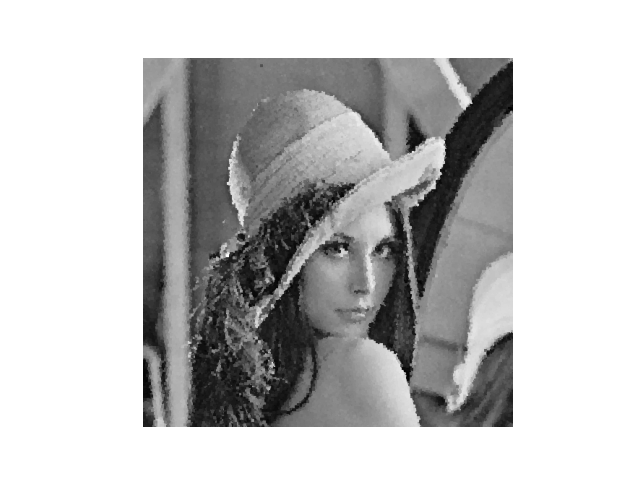
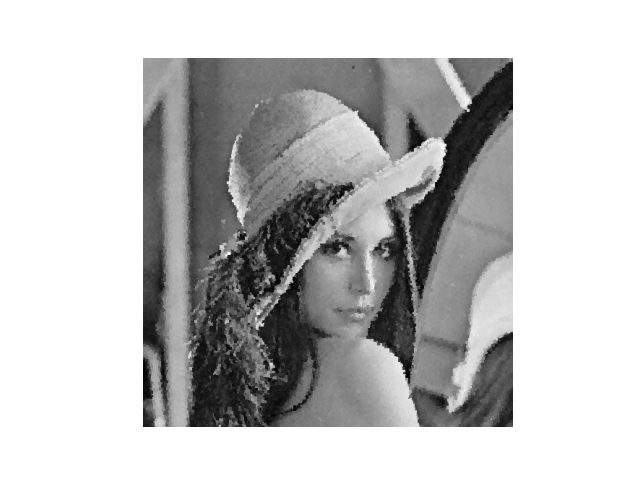
add doc

diff --git a/main12.py b/main12.py
@@ -818,7 +818,7 @@ def get_noise_degree(mat, h, w):
 
 img = cv2.imread('src/Lena.bmp', cv2.IMREAD_GRAYSCALE)  #读取灰度图
 #noise_img = cv2.imread('C:/Users/AMDyes/Desktop/noise_img/0.8noise.bmp', cv2.IMREAD_GRAYSCALE)  #读取灰度图
-noise_img = sp_noise(img, 0.5) #添加噪声
+noise_img = sp_noise(img, 0.8) #添加噪声
 padded_img = np.pad(img, ((1, 1), (1, 1)), mode='symmetric')
 h, w = noise_img.shape
 sub_h, sub_w = h // 2, w // 2 # 1/4子图的高宽
@@ -864,7 +864,7 @@ if nd > t:
     padded_noise_mat = lower_noise_density(padded_noise_mat)
     print('lowered')
 '''
-
+'''
 # 对高密度噪声降噪
 while(nd >= 0):
     padded_noise_mat = lower_noise_density(padded_noise_mat, 4, h, w)
@@ -890,7 +890,7 @@ while(nd >= 0):
         nd = nd0
     else:
         break
-
+'''
 denoise_img = padded_noise_mat.copy()
 
 for k in range(10): #迭代

diff --git a/main1.py b/main1.py
@@ -792,7 +792,7 @@ def lower_noise_density(mat1, mat2):
 
 img = cv2.imread('src/Lena.bmp', cv2.IMREAD_GRAYSCALE)  #读取灰度图
 #noise_img = cv2.imread('C:/Users/AMDyes/Desktop/noise_img/0.8noise.bmp', cv2.IMREAD_GRAYSCALE)  #读取灰度图
-noise_img = sp_noise(img, 0.5) #添加噪声
+noise_img = sp_noise(img, 0.8) #添加噪声
 padded_img = np.pad(img, ((1, 1), (1, 1)), mode='symmetric')
 h, w = noise_img.shape
 sub_h, sub_w = h // 2, w // 2 # 1/4子图的高宽

diff --git a/main2.py b/main2.py
@@ -792,7 +792,7 @@ def lower_noise_density(mat1, mat2):
 
 img = cv2.imread('src/Lena.bmp', cv2.IMREAD_GRAYSCALE)  #读取灰度图
 #noise_img = cv2.imread('C:/Users/AMDyes/Desktop/noise_img/0.8noise.bmp', cv2.IMREAD_GRAYSCALE)  #读取灰度图
-noise_img = sp_noise(img, 0.1) #添加噪声
+noise_img = sp_noise(img, 0.8) #添加噪声
 padded_img = np.pad(img, ((1, 1), (1, 1)), mode='symmetric')
 h, w = noise_img.shape
 sub_h, sub_w = h // 2, w // 2 # 1/4子图的高宽

diff --git a/doc/20240131.md b/doc/20240131.md
@@ -1,0 +1,41 @@
+# 毕设汇报20240131
+
+## 高密度噪声降噪流程
+
+1. 设计阈值区间
+   - 0
+   - 3/4
+   - 8/9
+   - 15/16
+2. 计算噪声密度
+3. 判断密度处于哪个区间（区间可被调整，比如删去某一区间，来测试直接使用另一区间的效果）
+   - 0 ~ 3/4：跳过高密度降噪
+   - 3/4 ~ 8/9：利用2*2格子（3比1情况）降噪
+   - 8/9 ~ 15/16：利用3*3格子（8比1情况）降噪
+   - 15/16以上：利用4*4格子（15比1情况）降噪
+4. 循环直到降为“低密度”噪声图像
+
+## 测试
+
+### 素材
+
+Lena图
+
+### 测试结果
+
+| 编号 | 原始噪声密度       | 利用何种模式 | 预处理降噪后噪声密度 | psnr               | ssim               |
+| ---- | ------------------ | ------------ | -------------------- | ------------------ | ------------------ |
+| 1    | 0.7944367060818484 | 2*2          | 0.12373010946418568  | 25.140800960313566 | 0.7601901198876823 |
+| 2    | 0.8939234507713969 | 3*3          | 0.20137700797892474  | 23.396030137032575 | 0.6814594494132431 |
+| 3    | 0.9429173795212644 | 4*4          | 0.2350906145437478   | 22.06005723427621  | 0.6127965535379177 |
+| 4    | 0.9416153159018305 | 3*3          | 0.2208776817211464   | 21.745781170873883 | 0.6070493066344868 |
+| 5    | 0.9424442459386213 | 2*2          | 0.14332162485427485  | 19.812177160762136 | 0.5538181081455833 |
+| 6    | 0.9427659767748188 | 无           | 无                   | 22.832078061116086 | 0.6508057304136702 |
+| 7    | 0.7937705339974868 | 无           | 无                   | 23.715710552673677 | 0.7058943898677781 |
+
+### 结果分析
+
+- 1、2、3号实验表明，无论用何种规模的模式来进行高密度噪声降噪，都可以说是“一步到位”，从某种意义上来说，噪声下降比较快，能直接降到低密度噪声
+- 3、4、5号实验表明，使用更“贴切”的模式，虽然一轮降噪后密度不会下降到最小，但是对于最终的psnr和ssim来说，效果是更好的（比如4 * 4的格子对应了15/16的噪声密度，更接近于0.95的原始噪声密度，它的效果就比3 * 3和2 * 2的效果要好）
+- 1、7号实验表明，在原始噪声密度为0.8时，如果先进行一轮去噪，那么结果会更好；但是，3、6号实验表明，在噪声密度是0.95时，不进行第一轮去噪会更好。可见其中仍存在一个阈值，在噪声密度小于这个阈值时，使用该预处理方法会更好。
+

diff --git a/doc/20240201.md b/doc/20240201.md
@@ -1,0 +1,94 @@
+# 毕设汇报20240201
+
+## 检查迭代是否有效
+
+添加噪声密度验证
+
+![image-20240201105839909](https://img.icvuln.com/202402011058467.png)
+
+结果如下：
+
+```
+0.7947205862314343
+0 0.0
+1 0.0
+2 0.0
+3 0.0
+4 0.0
+5 0.0
+6 0.0
+7 0.0
+8 0.0
+9 0.0
+psnr = 23.69689274017275 ssim = 0.7058177082966003
+```
+
+结果表明，当第一次迭代时，k=0，降噪完成时噪声密度已降为0，所以迭代无效
+
+代码端也能发现，在一次迭代过程中，对每一个椒盐噪声都进行了操作，所以这一段为假迭代
+
+## 改进方案
+
+### 优化高密度噪声降噪
+
+依次利用4x4、3x3、2x2格子进行高密度噪声下降
+
+### 迭代条件
+
+每轮迭代统计椒盐噪声个数，降为0则停止迭代
+
+### 降噪逻辑优化
+
+#### 改进前
+
+在一次降噪遍历中，对于所有被检测到的椒盐噪声，匹配相应的结构系数，来进行降噪。
+
+可以理解为在一次遍历中，火力覆盖，去除一切噪声，该噪声是什么类型（不论多么预计的偏离会有多高。比如，2x2格子中有多个噪声，此时处理这些噪声的优先级会与只有一个噪声的优先级等同），这显然没那么合理。
+
+#### 改进方案分析
+
+首先认定3个有效信号点和一个噪声点（即3:1情况）为降噪最优情况，后续的优先级依次为2:2和1:3
+
+那么如果按照优先级顺序去去除噪声，得到的效果应该是最好的。
+
+这里会有一个要注意的地方：当进行过一次3:1情况的降噪后，并不能想当然地觉得已经没有3:1的情况了，因为可能会产生新的3:1情况，这时候如果利用后续优先级进行降噪，也不合理。以此类推，进行过2:2情况的降噪之后，也可能会出现3:1情况。
+
+所以，在每一次迭代的过程中，所使用的迭代方案需要“反复横跳”。
+
+#### 改进后的实验
+
+```
+0.7937591787915033
+4:  0.45951869066904877
+4:  0.45946191463913155
+4:  0.45946191463913155
+3:  0.2775363745098336
+3:  0.27738497176338783
+3:  0.27738497176338783
+2:  0.1121553694984027
+2:  0.10863525564353738
+2:  0.1084535723478024
+2:  0.10841950672985208
+2:  0.10841950672985208
+1 17954
+1 17954
+2 9422
+1 2717
+1 2717
+2 2689
+1 2689
+2 2676
+1 2676
+2 2676
+3 1241
+1 286
+1 286
+2 92
+1 0
+1 0
+2 0
+3 0
+psnr = 25.313423396525266 ssim = 0.7610030829347012
+```
+
+可以看到最终的效果有提升

diff --git a/doc/20240118.md b/doc/20240118.md
@@ -1,0 +1,72 @@
+# 毕设汇报20240118
+
+## psnr函数与ssim函数
+
+关于skimage库版本问题，老版本已经不可用，为与新版本对齐，源码作如下更改
+
+```python
+psnr1 = skimage.measure.compare_psnr(img, XX, data_range = 255)
+ssim1 = skimage.measure.compare_ssim(img, XX, data_range = 255)
+```
+
+改为
+
+```python
+from skimage.metrics import structural_similarity as compare_ssim       #新增
+from skimage.metrics import peak_signal_noise_ratio as compare_psnr
+
+psnr1 = compare_psnr(img, XX, data_range = 255)
+ssim1 = compare_ssim(img, XX, data_range = 255)
+```
+
+## 测试Lena
+
+由于噪声为随机产生，现给出多组测试结果
+
+```
+#10%
+psnr = 43.4639140705086 ssim = 0.9899830723161216
+psnr = 43.2753635684298 ssim = 0.989775568500235
+psnr = 43.493183564855485 ssim = 0.9898790473584812
+psnr = 43.65785791414208 ssim = 0.9899044613183196
+psnr = 43.52904936221191 ssim = 0.9897809496133231
+
+#20%
+psnr = 39.73368146308409 ssim = 0.9778836010125204
+psnr = 39.860965110270996 ssim = 0.9784032857395689
+psnr = 39.751649723087084 ssim = 0.9780466566826218
+
+#50%
+psnr = 33.61522188699379 ssim = 0.9285557182307549
+psnr = 33.62514878986914 ssim = 0.9287306663992907
+
+#90%
+psnr = 23.11610049634408 ssim = 0.6684197086391456
+psnr = 23.12250730160303 ssim = 0.6686782815578644
+```
+
+![image-20240118161447494](https://img.icvuln.com/202401181614674.png)
+
+![image-20240118161518832](https://img.icvuln.com/202401181615839.png)
+
+## lower_noise_density函数的调用——对高密度噪声降噪部分
+
+### 源码
+
+![image-20240118170555238](https://img.icvuln.com/202401181705330.png)
+
+### lower_noise_density函数
+
+![image-20240118170848043](https://img.icvuln.com/202401181708857.png)
+
+### 简单修改后
+
+```
+#90%
+psnr = 23.904257003455985 ssim = 0.6983625924970005
+```
+
+### 更多的改进
+
+对高密度噪声降噪部分，应该一直修正到，密度小于阈值，而不应该只修正一次
+
